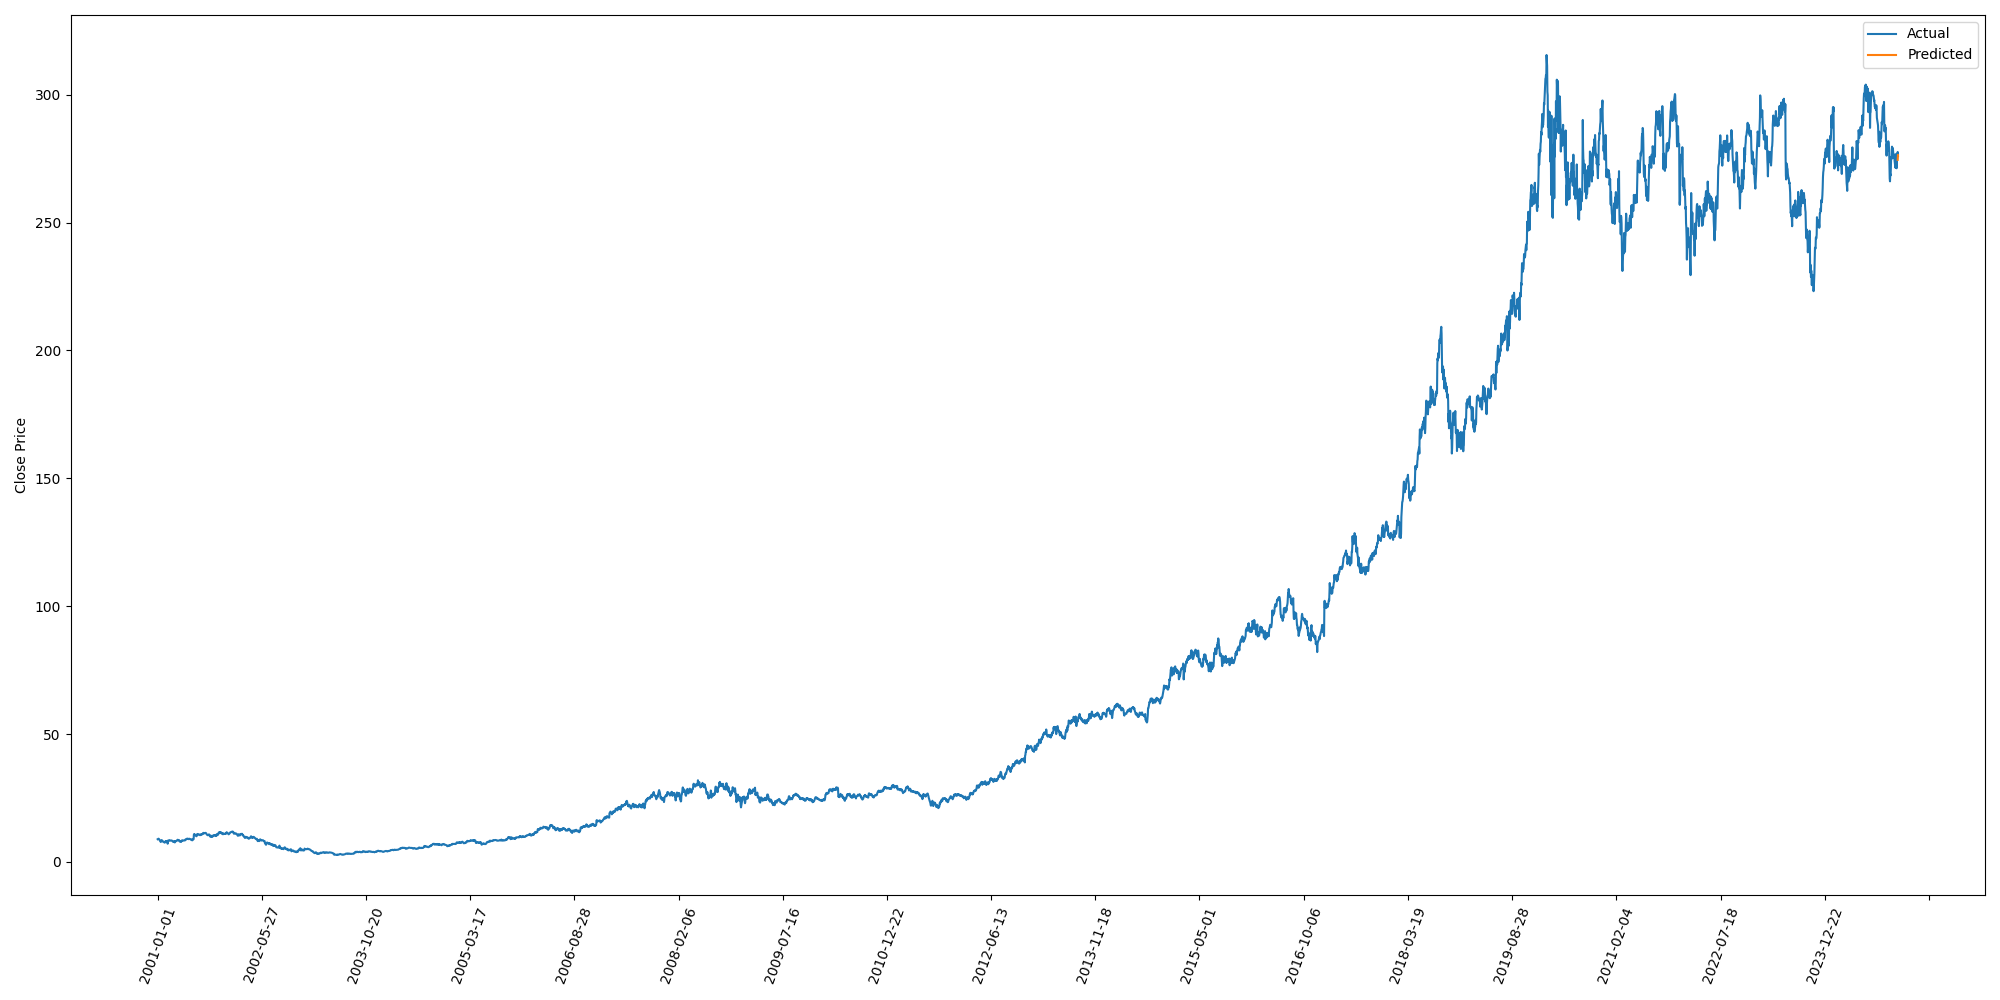
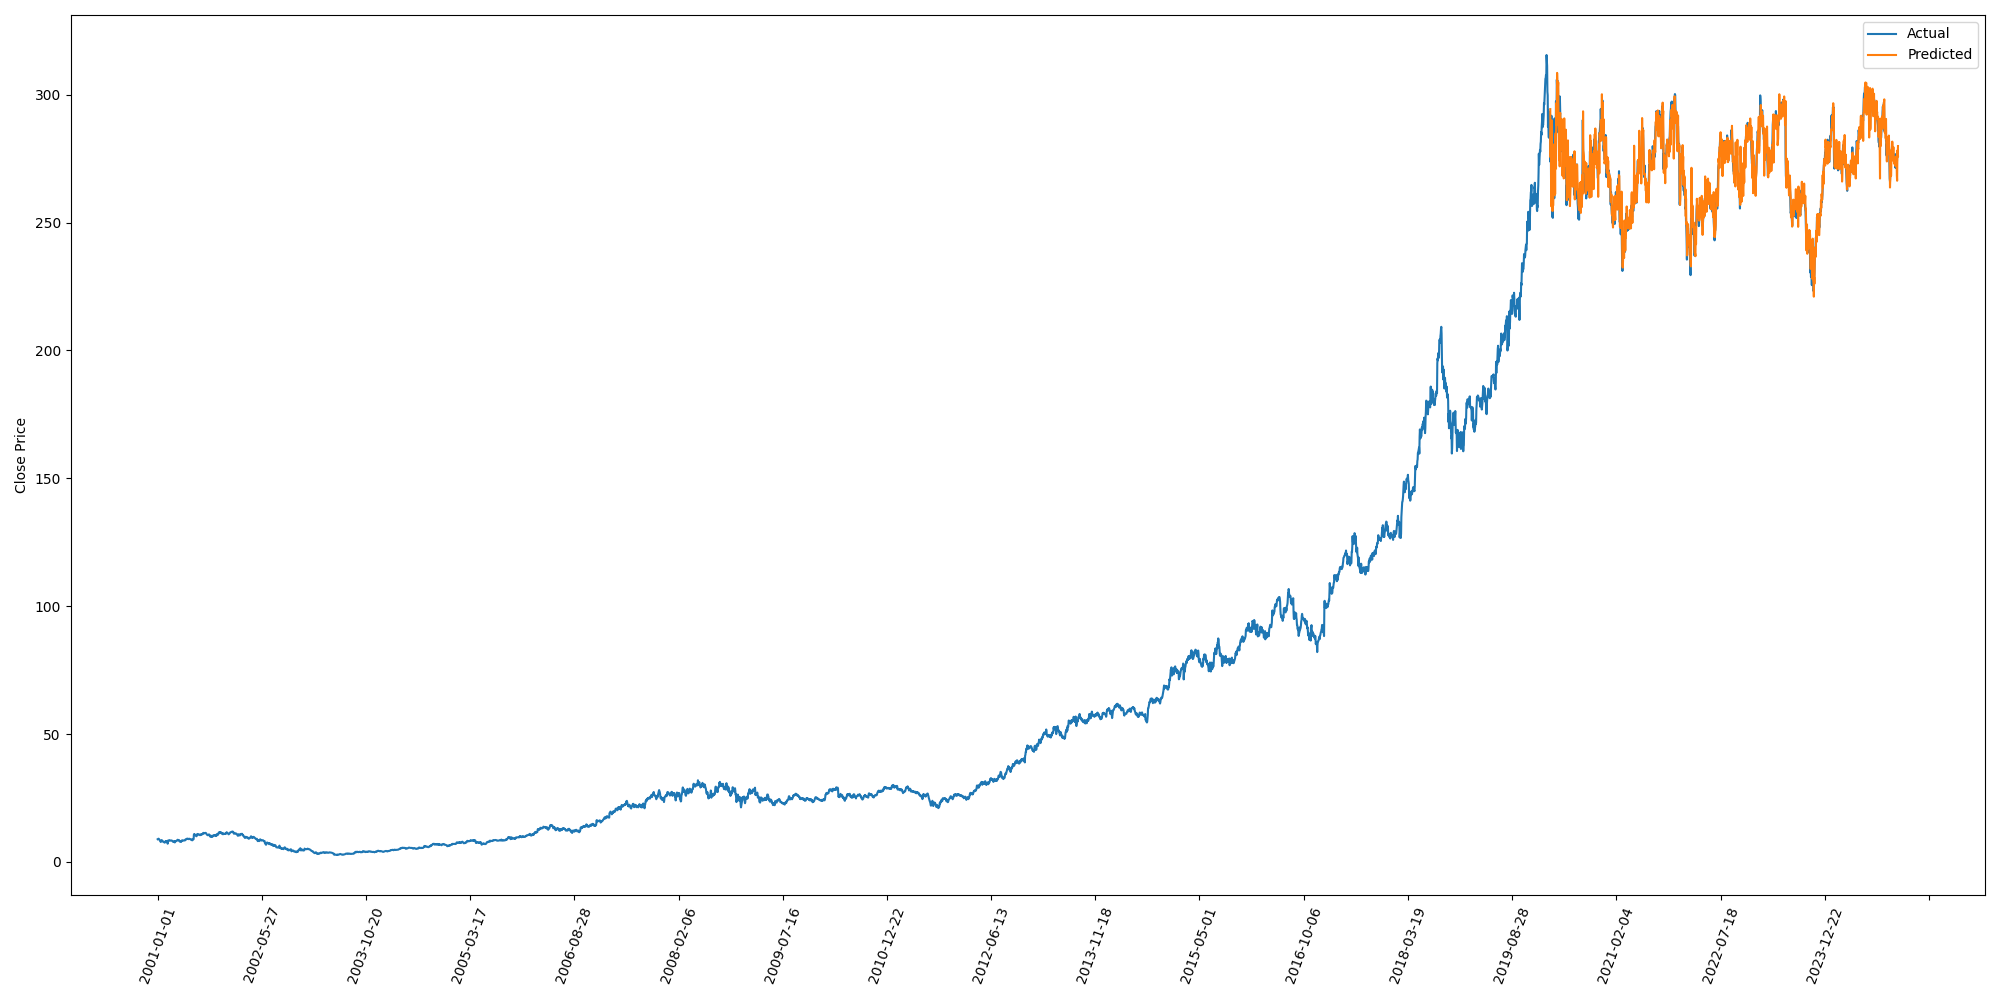
rf 3 done

Changed region(s): [[0.775, 0.093, 0.961, 0.279]]

diff --git a/RF_ol.py b/RF_ol.py
@@ -120,7 +120,7 @@ def main():
     # rf_model(dataset_list[0], ticker_list[0])
     # rf_model(dataset_list[1], ticker_list[1])
     # rf_model(dataset_list[2], ticker_list[2])
-    # # rf_model(dataset_list[3], ticker_list[3])
+    rf_model(dataset_list[3], ticker_list[3])
     # rf_model(dataset_list[4], ticker_list[4])
     # rf_model(dataset_list[5], ticker_list[5])
     # rf_model(dataset_list[6], ticker_list[6])
